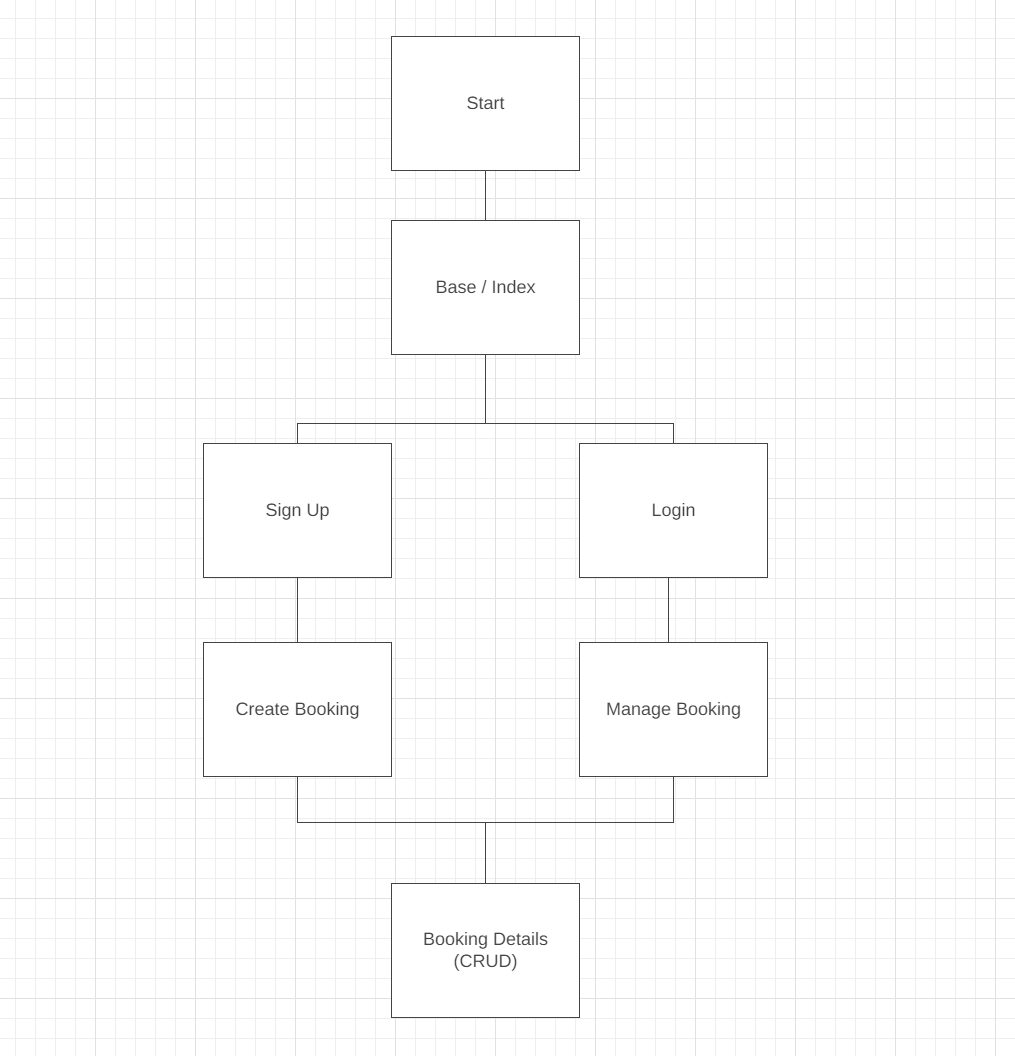
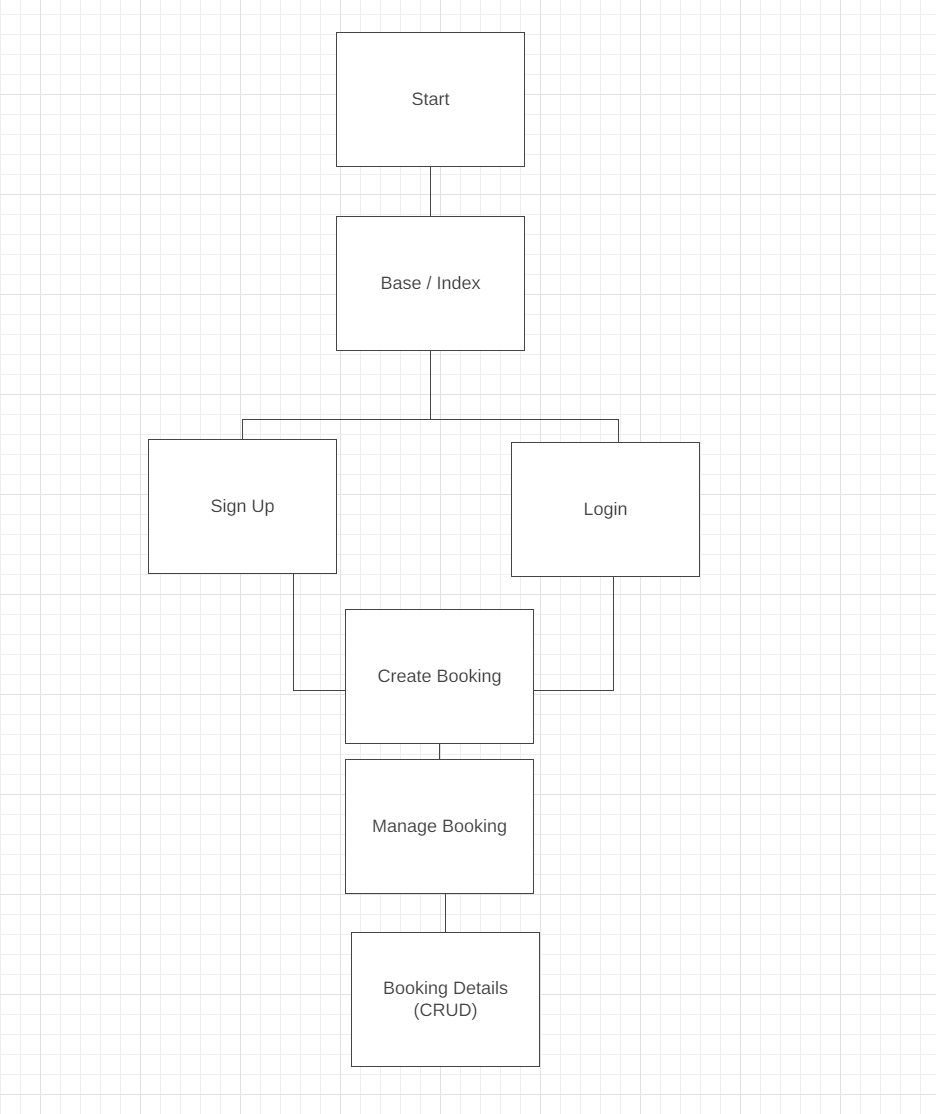
Docs: Updated readme and added readme images.

diff --git a/README.md b/README.md
@@ -123,3 +123,108 @@ Desktop
 
 ### Navigation / Flow Plan
 ![Navigation Plan](media/readme-media/erd/FlowImage.png)
+
+## Features
+### Existing Features
+Below are the main features of Hammond Hustle.
+
+### Users
+
+#### Base
+##### NavBar
+- The company name is visible on all nav bar sizes.
+- The nav bar has a toggle feature on smaller devices.
+- When a user is logged in, the nav features different links for authenticated users only.
+
+![nav 1](media/readme-media/features/NavNotLoggedIn.png)
+![nav 2](media/readme-media/features/NavLoggedIn.png)
+![nav 3](media/readme-media/features/NavToggleFeat.png)
+
+##### Hero Image / Button
+- At the top of the base/index page, there is a make a booking button.
+- If not logged in, this redirects the user to the login page.
+
+![Hero Button](media/readme-media/features/HeroImageWithButton.png)
+
+##### Trainer Section
+- The trainer section includes images of the trainers.
+- On desktop, they also have a hover animation.
+- The nav link correctly links to this section on all files.
+
+![Trainers](media/readme-media/features/TeamSection.png)
+
+##### About Section
+- The about section includes a small paragraph about the company.
+- The nav link correctly links to this section on all files.
+
+![About Section](media/readme-media/features/AboutSection.png)
+
+#### Signup / Login
+##### Signup
+- The signup form informs the user of what data each input field requires.
+- If the user is an employee, they can enter their employee code here.
+- If the user enters incorrect details or misses a section, it pops up with an error message.
+
+![singup form](media/readme-media/features/SignUpForm.png)
+![error message](media/readme-media/features/PleaseFillMessage.png)
+
+##### Login
+- The login form requires correct username and password.
+- If incorrect details are entered, a message appears and the user must retry.
+
+![login form](media/readme-media/features/LogInForm.png)
+![login error message](media/readme-media/features/IncorrectLoginMessage.png)
+
+#### Bookings
+##### Create Booking Form
+- The create booking includes numerous input fields for the user to fill.
+- All data fields must be filled otherwise the same error message with the signup form will appear.
+- The DOB and Session date and time use a calender picker to make it easier for users.
+- When a user choses a time with a specific coach, if that day is already booked - it will be greyed out on the calender.
+- Bookings with coaches last all day so you cannot have multiple times on one day per coach.
+
+![create booking](media/readme-media/features/CreateBookingForm.png)
+![create date greyed](media/readme-media/features/CreateBookingDateGreyed.png)
+
+##### Your Bookings
+- The your booking screen has all bookings for that user.
+- The status will be pending until a coach (employee) approves it.
+- Once a booking is approved, the status changes from pending to approved.
+
+![Your Booking](media/readme-media/features/YourBookingSection.png)
+
+##### Edit Booking
+- The edit booking screen allows the user to edit a booking which has already been booked.
+- Like the create booking form, the dates are greyed out with already booked sessions.
+
+![edit booking](media/readme-media/features/EditBookingForm.png)
+![edit date greyed](media/readme-media/features/EditBookingDateGreyed.png)
+
+#### Account
+##### My Account
+- The my account section allows users to update their personal info.
+- Again, if not filled out correctly or a datafield is missing info, an error mesage will appear.
+
+![my account](media/readme-media/features/MyAccountForm.png)
+
+### Employee
+
+##### Your Booking
+- On the your booking screen for employees, their view is simlar.
+- However, on theirs they can see users who want to book with them.
+- Employees can reject, approve, and once approved they can mark as completed.
+
+![employee booking](media/readme-media/features/EmployeeBookings.png)
+
+### Admin
+
+##### Your Booking
+- As the admin, they can see all bookings, apprvoed, completed or rejected.
+- They also have the option to delete or edit these.
+
+![admin booking](media/readme-media/features/AdminYourBooking.png)
+
+
+
+
+
